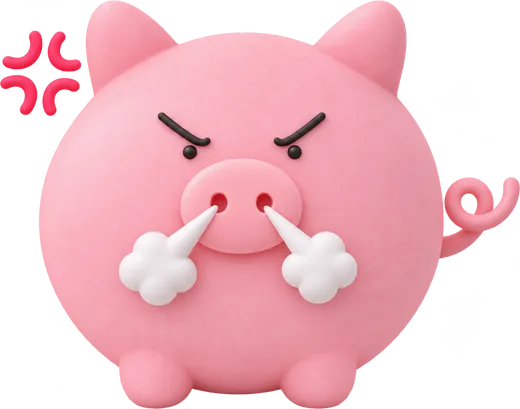
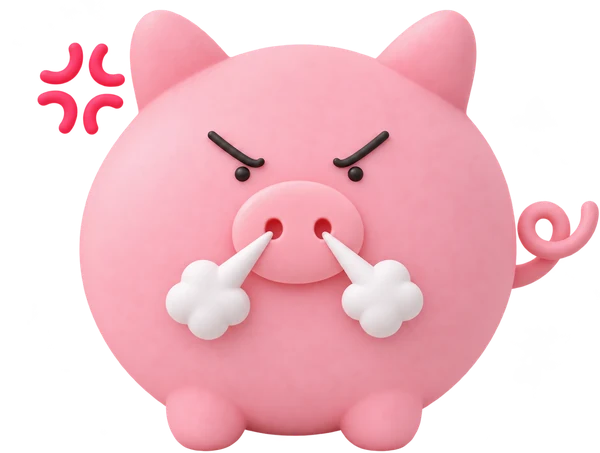
app: 스플래시 2번 복원·중앙 정렬·펌웨어 98c9db5 반영 (gamja1610/Oink 0cf67c6)

diff --git a/app/app.js b/app/app.js
@@ -2,7 +2,7 @@
 import { rate, co2Slope, decompProgress, decompStage, co2TrendText, addFeed, homeState, homeText, stateEvents, addEvents, recent,
   DEMO_SPEED, DECOMP_END_H, PEAK_H, AMP_DEFAULT, curveH, predictPpm, activity, capPoints, hotFoodStep, HOT_MSG_OFF, HOT_MSG_AUTO, autoRange, CO2_MAX, HOLD_RESEND_MS,
   heatModeOf, heaterCmds, restoreMode, dbCo2Points, mergeCo2, pickFeedTs, dqBadge,
-  DB_RAW_MS, db1mPoints, joinAggRaw, dbEvents, mergeEvents } from "./logic.mjs";
+  DB_RAW_MS, db1mPoints, joinAggRaw, dbEvents, mergeEvents, faultWord, deviceNote, ctrlTargetOf } from "./logic.mjs";
 
 const T = {
   status: "oink/gateway/status",
@@ -48,7 +48,6 @@ let gw = { online: false, tele: null, lastSeen: 0 };
 const loadJson = (k, d) => { try { const v = JSON.parse(store.get(k) || "null"); return v ?? d; } catch { return d; } };
 let co2Hist = loadJson(KEY_CO2, []).filter((p) => Number.isFinite(p?.t) && Number.isFinite(p?.ppm));
 let tempHist = [];
-let temp2Hist = [];
 let liveMs = 120000; // 실시간 그래프 창: 2분(#1 5초 주기 → 점 24개), 60초 전환
 let lastHoldSend = 0;
 let co2Base = loadJson(KEY_BASE, null);
@@ -288,7 +287,9 @@ function render() {
   }
   pig.className = `${pigCls}${pig.classList.contains("pop") ? " pop" : ""}`;
   const latched = !!b2?.latched; // firmware2 과열 래치: 해제 = 식은 뒤 off 명령
-  const txt = latched && hs.state !== "sleep" && hs.state !== "alert" ? "과열 차단 중이에요 — 식은 뒤 '히터 끄기'로 해제"
+  const note = deviceNote(b2); // fault·대체 제어(#1 끊김이면 hs.state는 sleep이라 연결돼 있을 때만)
+  const txt = latched && hs.state !== "sleep" && hs.state !== "alert" ? faultWord(b2) || "과열 차단 중이에요 — 식은 뒤 '히터 끄기'로 해제"
+    : linked && note && hs.state !== "alert" ? note
     : ecoHome ? "에너지 아끼며 새근새근 낮잠 자는 중… zZ 🐽" : homeText(hs);
   $("moodText").textContent = txt;
   pig.alt = `Oink: ${txt}`;
@@ -302,8 +303,8 @@ function render() {
   $("cCo2").classList.toggle("hot", hs.reasons.includes("co2"));
   const t = b1?.temp1_c;
   $("vTemp").textContent = Number.isFinite(t) ? t.toFixed(1) : "—";
-  $("nTemp").textContent = !b1 ? "연결 안 됨" : hs.reasons.includes("hot") ? "너무 뜨거워요!" : Number.isFinite(b2?.temp2_c) ? `바닥 ${b2.temp2_c.toFixed(1)}℃`
-    : Number.isFinite(b2?.target_c) ? `목표 ${b2.target_c.toFixed(1)}℃` : "적당해요"; // firmware2: temp2_c 항상 null
+  $("nTemp").textContent = !b1 ? "연결 안 됨" : hs.reasons.includes("hot") ? "너무 뜨거워요!"
+    : Number.isFinite(b2?.target_c) ? `목표 ${b2.target_c.toFixed(1)}℃` : "적당해요";
   $("cTemp").classList.toggle("hot", hs.reasons.includes("hot"));
   $("vOdor").textContent = Number.isFinite(b1?.odor_index) ? Math.round(b1.odor_index) : "—";
 
@@ -334,7 +335,11 @@ function render() {
   else { hb.textContent = b2.heater_on ? "데우는 중" : "쉬는 중"; hb.className = `badge ${b2.heater_on ? "good" : ""}`; }
   $("heatMode").textContent = !b2 ? "연결 안 됨" : hm === "auto" ? "자동" : hm === "eco" ? "🌱 에코 절전" : hm === "off" ? "꺼짐(OFF)" : hm === "on" ? "켜짐(ON)" : "펌웨어 대기";
   $("ecoNote").hidden = hm !== "eco";
-  for (const el of document.querySelectorAll(".latchNote")) el.hidden = !latched;
+  for (const el of document.querySelectorAll(".latchNote")) {
+    el.hidden = !latched;
+    el.textContent = `🔒 ${b2?.fault_text === "no_rise" ? faultWord(b2) : "과열 차단(래치) — 식은 뒤 '히터 끄기'로 해제해요"}`;
+  }
+  $("devNote").hidden = !note || latched; $("devNote").textContent = note;
   // 홈 모드 칩 + 절전 토글(실제 상태는 telemetry 기준 → 실패하면 자연히 원래 상태로 돌아감)
   const chip = $("modeChip");
   chip.hidden = !hm;
@@ -352,7 +357,7 @@ function render() {
   $("ecoSub").textContent = !hm ? "기기와 연결되면 바꿀 수 있어요" : busy ? "기기에 보내는 중…"
     : hm === "eco" ? "목표 온도 30℃로 낮춰 히터 가동을 줄여요" : "목표 37℃로 분해를 도와요";
   const ct = b2?.ctrl_temp_c ?? b1?.temp1_c;
-  $("heatTemps").textContent = !b2 ? "" : [Number.isFinite(ct) ? `${ct.toFixed(1)}℃` + (Number.isFinite(b2.target_c) ? ` → ${b2.target_c}℃` : "") : "",
+  $("heatTemps").textContent = !b2 ? "" : [Number.isFinite(ct) ? `${ct.toFixed(1)}℃` + (Number.isFinite(b2.target_c) ? ` → ${ctrlTargetOf(b2)}℃` : "") : "",
     b2.heater_on ? "히터 켜짐" : "히터 꺼짐"].filter(Boolean).join(" · ");
   if (pendingHeat) {
     const who = pendingHeat.auto ? "앱 자동 제어 · " : "";
@@ -501,7 +506,6 @@ function onMessage(topic, buf) {
     if (valid(b1)) co2Hist = capPoints(keep([...co2Hist, { t: now, ppm: b1.co2_ppm }]));
     if (Number.isFinite(b1?.temp1_c)) tempHist = keep([...tempHist, { t: now, c: b1.temp1_c }]).filter((p) => now - p.t <= 10 * 60000);
     const b2 = msg.board2;
-    if (Number.isFinite(b2?.temp2_c)) temp2Hist = [...temp2Hist, { t: now, c: b2.temp2_c }].filter((p) => now - p.t <= 5 * 60000);
     const feedTs = lastFeedTs();
     if (feedTs && co2Base?.feedTs !== feedTs) { // 투입 직후 첫 유효값을 기준으로
       const first = co2Hist.find((p) => p.t >= feedTs);
@@ -509,7 +513,7 @@ function onMessage(topic, buf) {
     }
     if (now - lastCo2Save > 30000) { lastCo2Save = now; store.set(KEY_CO2, JSON.stringify(co2Hist)); }
     if (client?.connected) {
-      const r = hotFoodStep(hotSt, { series: { t1: tempHist, t2: temp2Hist }, co2s: co2Hist, now, cur: { t1: b1?.temp1_c, t2: b2?.temp2_c } });
+      const r = hotFoodStep(hotSt, { series: { t1: tempHist }, co2s: co2Hist, now, cur: { t1: b1?.temp1_c } });
       if (r.st !== hotSt) { hotSt = r.st; store.set(KEY_HOT, JSON.stringify(hotSt)); }
       if (r.action === "off") {
         const m = heatModeOf(b2); if (m && m !== "off") { preHot = m; store.set(KEY_PREHOT, m); } // 복귀 때 ECO 유지
@@ -636,10 +640,10 @@ try {
 setInterval(() => { if (!$("app").hidden) render(); }, 2000);
 loadDb(true);
 setInterval(pollDbStatus, 60000);
-// 시작 화면(시연용, 로그인 유지여도 매번): 탭하면 앱. 자동 넘김 없음
+// 시작 화면(시연용, 로그인 유지여도 매번): 탭 → 2번 화면 → 탭 → 앱. 자동 넘김 없음
 {
   const sp = $("splash");
-  const next = () => sp.remove();
+  const next = () => { if (sp.classList.contains("two")) sp.remove(); else sp.classList.add("two"); };
   sp.addEventListener("click", next);
   sp.addEventListener("keydown", (e) => { if (e.key === "Enter" || e.key === " ") { e.preventDefault(); next(); } });
   sp.focus();

diff --git a/app/style.css b/app/style.css
@@ -258,13 +258,14 @@ body { background: #FFFDFC; }
 /* 시작 화면 */
 .splash { position: fixed; inset: 0; z-index: 50; background: #fff; cursor: pointer; }
 .splash .sc { position: absolute; inset: 0; display: flex; flex-direction: column; align-items: center; justify-content: center; gap: 18px; transition: opacity .3s ease; }
-.sp-pig { width: min(64vw, 260px); }
+.sp-pig { display: block; width: 100%; height: auto; }
 .sp-title { margin: 0; font-size: 2rem; font-weight: 800; color: var(--text); }
 @media (prefers-reduced-motion: reduce) { .splash .sc { transition: none; } }
 
 /* ---- 3D 목업(img_src/mockup_3d.png): 이미지 돼지, 입체 꽃, 탭 넘김 시작 화면, 은은한 입체 톤 ---- */
 body { background: #FFFFFF; }
-.pigwrap { position: relative; width: 230px; margin: 0 auto; }
+/* 이미지 캔버스는 몸통(꼬리 제외) 중심 = 가로 중앙(세 표정 공통 크롭). 왼쪽 13.8%는 빈 여백이라 몸통 크기 유지 위해 230→267 */
+.pigwrap { position: relative; width: 267px; margin: 0 auto; }
 .pig { display: block; width: 100%; height: auto; filter: drop-shadow(0 14px 16px rgba(214, 120, 140, .22)); transform-origin: 50% 90%; }
 .pig.calm { animation: breathe 3.2s ease-in-out infinite; }
 .pig.alert { animation: shake .5s ease-in-out infinite; }
@@ -287,16 +288,16 @@ button.primary, .seg button[aria-pressed=true] { background: linear-gradient(180
 .hero .bubble { box-shadow: 0 4px 12px -6px rgba(0, 0, 0, .18); }
 /* 시작 화면 */
 .splash { outline: none; }
-.splash .sc1 .pigwrap { width: min(62vw, 260px); }
+.splash .sc1 .pigwrap { width: min(72vw, 302px); }
 .sp-hint { position: absolute; left: 0; right: 0; bottom: calc(22px + env(safe-area-inset-bottom)); margin: 0; display: flex; flex-direction: column; align-items: center; gap: 8px; color: var(--muted); font-size: .8rem; font-weight: 700; z-index: 2; }
 .sp-hint .lbl { display: flex; flex-direction: column; align-items: center; gap: 6px; padding: 8px 16px; border-radius: 18px; background: rgba(255, 255, 255, .85); }
 
 /* ---- 3D 젤리 스타일(아이콘 스프라이트 #i-*, #t-*): 표현만 ---- */
 .sprite { position: absolute; width: 0; height: 0; overflow: hidden; }
 .fl { position: absolute; z-index: 1; width: 36px; height: 36px; filter: drop-shadow(0 4px 3px rgba(200, 140, 0, .28)); }
-.fl.f1 { left: -18px; top: 18px; transform: rotate(-14deg); }
+.fl.f1 { left: calc(13.8% - 18px); top: 18px; transform: rotate(-14deg); }
 .fl.f2 { right: -14px; top: -2px; width: 31px; height: 31px; transform: rotate(18deg); }
-.fl.f3 { left: -8px; bottom: 4px; width: 28px; height: 28px; transform: rotate(6deg); }
+.fl.f3 { left: calc(13.8% - 8px); bottom: 4px; width: 28px; height: 28px; transform: rotate(6deg); }
 .hero.calm .fl { animation: twinkle 2.8s ease-in-out infinite; }
 .hero.calm .fl.f2 { animation-delay: .6s; } .hero.calm .fl.f3 { animation-delay: 1.2s; }
 @keyframes twinkle { 50% { translate: 0 -3px; scale: 1.08; } }
@@ -413,3 +414,19 @@ button:active:not(:disabled) { box-shadow: inset 0 3px 6px rgba(160, 80, 100, .2
 /* DB 품질 표시: 플래그 점 = 회색 속빈 원, 카드 배지(경고색 아님) */
 .spark .sp-flag { fill: #fff; stroke: #9E9393; stroke-width: 2; }
 .src.dq { background: #EEE8E8; color: #5E5050; }
+
+/* 시작 화면 2(목업 2번, 스플래시 2번 복원): 몸통 중심 = 가로 중앙(pig_base_lg는 홈 돼지와 같은 크롭), 귀·꼬리는 화면 안, 코 아래부터 화면 밖 */
+.splash .sc2 { opacity: 0; pointer-events: none; justify-content: flex-start; padding-top: 14vh; overflow: hidden; }
+.splash.two .sc1 { opacity: 0; pointer-events: none; }
+.splash.two .sc2 { opacity: 1; }
+.sp-title.pink { color: #D9536E; font-size: 2.3rem; }
+.peek { --pw: min(90vw, 520px); position: absolute; left: 0; right: 0; bottom: 0; height: calc(var(--pw) * .755 * .70); } /* 아래쪽은 .sc2 overflow:hidden(화면 끝)이 자름 — 효과선이 잘리지 않게 여기선 자르지 않음 */
+.peek .pk { position: absolute; left: 50%; top: 0; width: var(--pw); transform: translateX(-50%); }
+.peek img { display: block; width: 100%; height: auto; filter: drop-shadow(0 -6px 18px rgba(214, 120, 140, .18)); }
+.peek .lines { position: absolute; left: 9%; top: -6%; width: 16%; transform: translateY(-60%); }
+.sp-hint .dots { display: flex; gap: 6px; }
+.sp-hint .dots i { width: 7px; height: 7px; border-radius: 50%; background: #E8D8DA; }
+.splash:not(.two) .sp-hint .dots i:first-child, .splash.two .sp-hint .dots i:last-child { background: var(--brand); }
+.splash.two .sp-hint { color: #3D2E2E; bottom: calc(min(90vw, 520px) * .755 * .70 + 18px); }
+
+.sp-hint .lbl { color: #3D2E2E; }

diff --git a/app/index.html b/app/index.html
@@ -98,13 +98,18 @@
     <symbol id="t-bell" viewBox="0 0 24 24"><path d="M6 17 V11 a6 6 0 0 1 12 0 V17 l1.8 1.8 H4.2 z" style="fill:var(--tf)"/><circle cx="12" cy="21" r="2" style="fill:var(--tf)"/><ellipse cx="9.4" cy="9.6" rx="1.2" ry="2.4" fill="#fff" style="opacity:var(--th)" transform="rotate(20 9.4 9.6)"/></symbol>
     <symbol id="t-user" viewBox="0 0 24 24"><circle cx="12" cy="8" r="4.6" style="fill:var(--tf)"/><path d="M3.6 21 a8.4 7.6 0 0 1 16.8 0 z" style="fill:var(--tf)"/><ellipse cx="10.2" cy="6.2" rx="1.6" ry="1" fill="#fff" style="opacity:var(--th)"/><ellipse cx="8.5" cy="16.8" rx="2.2" ry=".9" fill="#fff" style="opacity:var(--th)" transform="rotate(-25 8.5 16.8)"/></symbol>
   </svg>
-  <!-- 시작 화면(목업 1번): 탭하면 앱 -->
+  <!-- 시작 화면(목업 1·2번): 탭할 때마다 다음, 2번 다음 앱 -->
   <div id="splash" class="splash" role="button" tabindex="0" aria-label="시작 화면, 탭해서 계속">
     <div class="sc sc1">
       <div class="pigwrap sp"><svg class="fl f1" aria-hidden="true"><use href="#i-flower"/></svg><svg class="fl f2" aria-hidden="true"><use href="#i-flower"/></svg><svg class="fl f3" aria-hidden="true"><use href="#i-flower"/></svg><img src="img/pig_happy.webp" alt="" class="sp-pig"></div>
       <p class="sp-title">우리집 미생물</p>
     </div>
-    <p class="sp-hint"><span class="lbl">탭해서 계속</span></p>
+    <!-- 시작 화면 2(목업 2번): 아래에서 고개 내민 돼지, 귀·꼬리는 화면 안 -->
+    <div class="sc sc2" aria-hidden="true">
+      <p class="sp-title pink">우리집 미생물</p>
+      <div class="peek"><span class="pk"><svg class="lines" viewBox="0 0 80 50"><path d="M12 40 l-8 -14 M34 32 l-2 -20 M52 36 l10 -16" stroke="#3D2E2E" stroke-width="5" stroke-linecap="round" fill="none"/></svg><img src="img/pig_base_lg.webp" alt="" width="1000" height="755"></span></div>
+    </div>
+    <p class="sp-hint"><span class="lbl"><span class="dots"><i></i><i></i></span>탭해서 계속</span></p>
   </div>
   <main>
     <p id="netWarn" class="banner warn" hidden>인터넷 연결이 필요해요 — 연결되면 다시 열어 주세요</p>
@@ -133,7 +138,7 @@
       <div id="tab-home" class="tab" role="tabpanel" aria-labelledby="tb-home">
         <article class="hero calm" id="hero">
           <p class="bubble"><svg class="bell" aria-hidden="true"><use href="#i-bell"/></svg><span id="moodText">쿨쿨 자는 중… 💤</span></p>
-          <div class="pigwrap"><svg class="fl f1" aria-hidden="true"><use href="#i-flower"/></svg><svg class="fl f2" aria-hidden="true"><use href="#i-flower"/></svg><svg class="fl f3" aria-hidden="true"><use href="#i-flower"/></svg><svg class="zz" aria-hidden="true"><use href="#i-zz"/></svg><img id="pig" class="pig calm" src="img/pig_base.webp" alt="Oink: 연결 중" width="520" height="449"></div>
+          <div class="pigwrap"><svg class="fl f1" aria-hidden="true"><use href="#i-flower"/></svg><svg class="fl f2" aria-hidden="true"><use href="#i-flower"/></svg><svg class="fl f3" aria-hidden="true"><use href="#i-flower"/></svg><svg class="zz" aria-hidden="true"><use href="#i-zz"/></svg><img id="pig" class="pig calm" src="img/pig_base.webp" alt="Oink: 연결 중" width="600" height="453"></div>
         </article>
 
         <div class="grid2">
@@ -250,6 +255,7 @@
           <p id="cmdMsg" class="cmd-msg" aria-live="polite"></p>
           <p id="ecoNote" class="banner eco" hidden>🌱 에코 절전 중 — 목표 온도를 30℃로 낮춰 히터 가동을 줄여요</p>
           <p class="banner warn latchNote" hidden>🔒 과열 차단(래치) — 식은 뒤 '히터 끄기'로 해제해요</p>
+          <p id="devNote" class="banner warn" hidden></p>
           <p id="holdNote" class="banner warn" hidden>뜨거운 음식물 감지 — 앱이 열려 있는 동안 OFF 유지 중</p>
           <p class="hint hot"><svg aria-hidden="true"><use href="#i-flame"/></svg><span>뜨거운 음식물이 감지되면 앱이 히터를 끄고, 온도가 안정되면 직전 모드(자동/절전)로 되돌려요</span></p>
           <p class="hint safe"><svg aria-hidden="true"><use href="#i-shield"/></svg><span>기기 안전 규칙(45℃ 차단·50℃ 래치)이 항상 우선 · 강제로 켜는 기능은 없어요</span></p>

diff --git a/app/sw.js b/app/sw.js
@@ -1,7 +1,7 @@
 // 앱 셸만 캐시(cache-first). MQTT(wss)·unpkg·Supabase 등 외부 요청은(다른 origin → 네트워크 전용) 건드리지 않는다.
-const CACHE = "oink-shell-v17";
+const CACHE = "oink-shell-v19";
 const SHELL = ["./", "index.html", "app.js", "logic.mjs", "style.css", "manifest.webmanifest",
-  "img/pig_base.webp", "img/pig_happy.webp", "img/pig_angry.webp",
+  "img/pig_base.webp", "img/pig_happy.webp", "img/pig_angry.webp", "img/pig_base_lg.webp",
   "icons/icon-192.png", "icons/icon-512.png", "icons/icon-512-maskable.png", "icons/apple-touch-icon.png"];
 
 self.addEventListener("install", (e) => {
